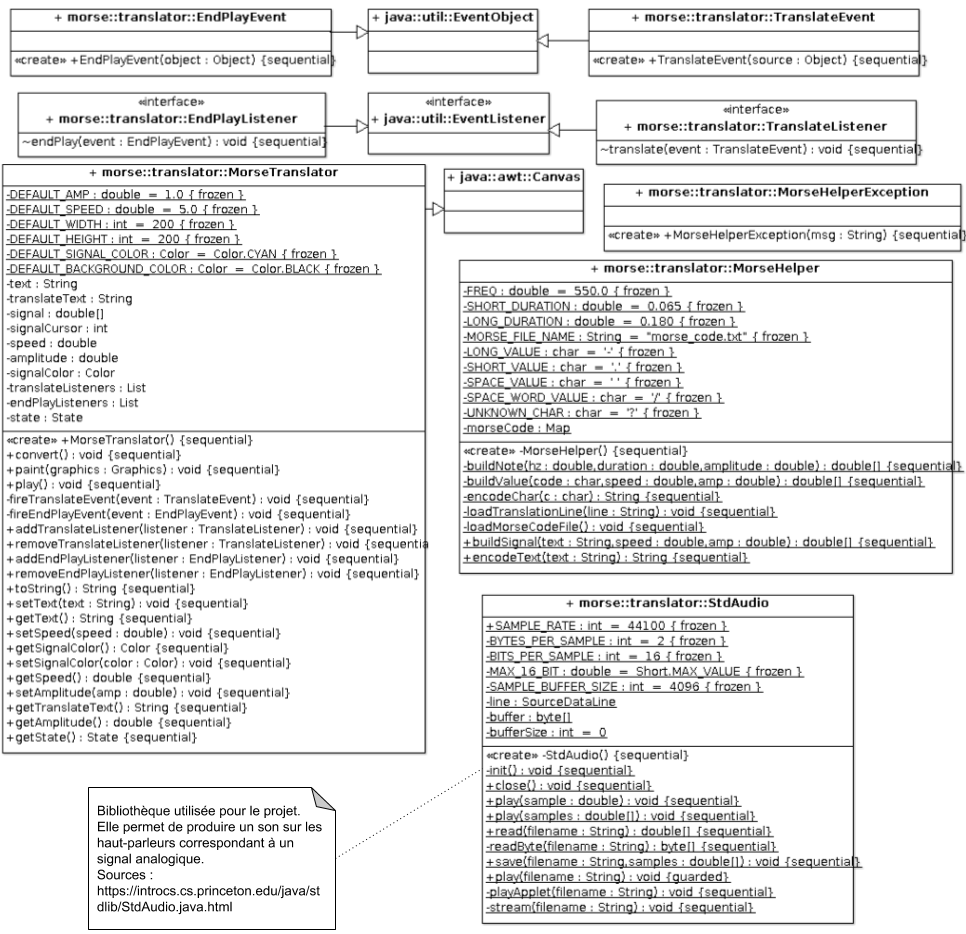
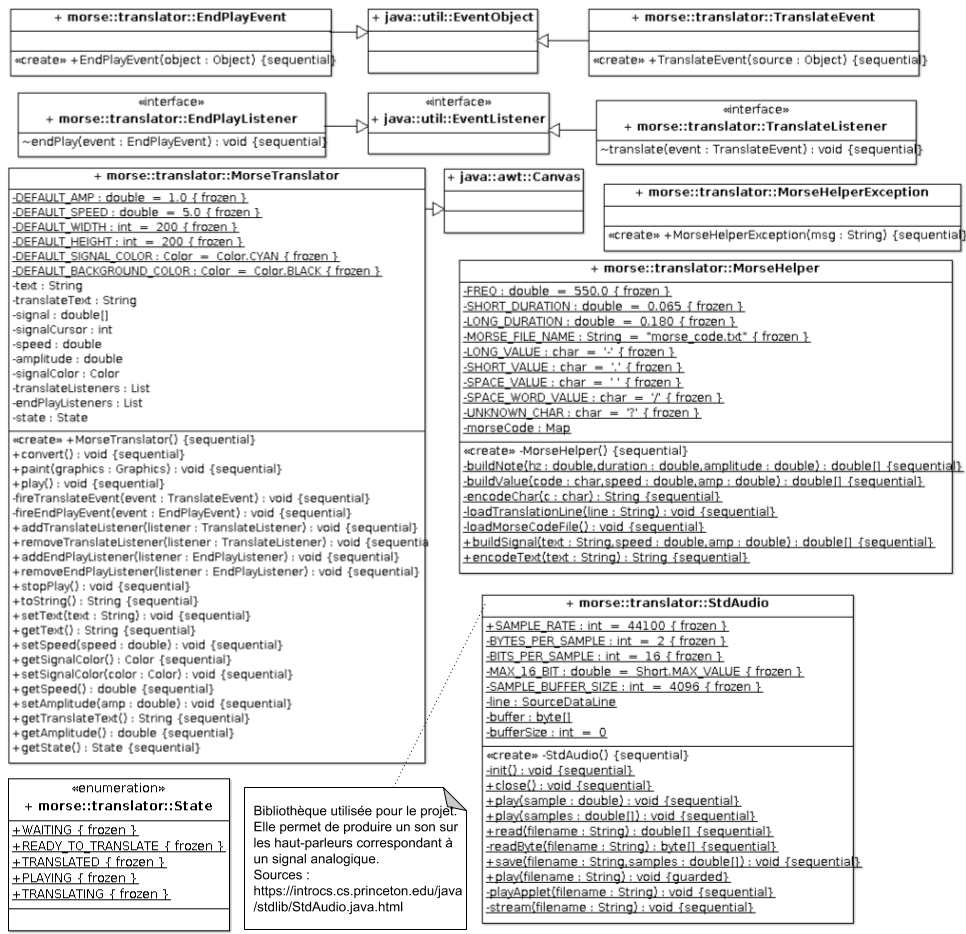
stop function and update documentation

Changed region(s): [[0.0, 0.1552, 0.4969, 1.0]]

diff --git a/src/Demo.java b/src/Demo.java
@@ -20,6 +20,9 @@ import java.awt.event.KeyEvent;
  */
 public class Demo extends javax.swing.JPanel {
 
+    private static final String STOP_LABEL = "Stop";
+    private static final String PLAY_LABEL = "Play";
+
     private javax.swing.JScrollPane inputScrollPane;
     private javax.swing.JTextArea inputText;
     private MorseTranslator morseTranslator;
@@ -35,7 +38,7 @@ public class Demo extends javax.swing.JPanel {
 
     public Demo() {
         initComponents();
-        autoLockElements();
+        autoElementsManagement();
     }
 
 
@@ -103,7 +106,7 @@ public class Demo extends javax.swing.JPanel {
             }
         });
 
-        playButton.setText("Play");
+        playButton.setText(PLAY_LABEL);
         playButton.addActionListener(new ActionListener() {
             @Override
             public void actionPerformed(ActionEvent event) {
@@ -199,48 +202,50 @@ public class Demo extends javax.swing.JPanel {
 
     private void inputTextKeyReleased(java.awt.event.KeyEvent evt) {
 
-        System.out.println(inputText.getText());
-
         if (!morseTranslator.getText().equals(inputText.getText())) {
             morseTranslator.setText(inputText.getText());
-            autoLockElements();
+            autoElementsManagement();
         }
     }
 
     private void translateButtonActionPerformed(java.awt.event.ActionEvent evt) {
 
         morseTranslator.convert();
-        autoLockElements();
+        autoElementsManagement();
     }
 
     private void playButtonActionPerformed(java.awt.event.ActionEvent evt) {
 
-        morseTranslator.play();
-        autoLockElements();
+        if (morseTranslator.getState() == State.PLAYING) {
+            morseTranslator.stopPlay();
+        } else {
+            morseTranslator.play();
+            autoElementsManagement();
+        }
     }
 
     private void speedStateChanged(javax.swing.event.ChangeEvent ce) {
 
         morseTranslator.setSpeed((double) speedSlider.getMaximum() / speedSlider.getValue());
-        autoLockElements();
+        autoElementsManagement();
     }
 
     private void ampStateChanged(javax.swing.event.ChangeEvent ce) {
 
         morseTranslator.setAmplitude((double) ampSlider.getValue() / ampSlider.getMaximum());
-        autoLockElements();
+        autoElementsManagement();
     }
 
     /* Fonction appelée par l’événement de traduction */
     private void morseTranslatorTranslate(TranslateEvent evt) {
 
         translateText.setText(morseTranslator.getTranslateText()); // On affiche le texte traduit
-        autoLockElements();
+        autoElementsManagement();
     }
 
     private void morseTranslatorEndPlay(EndPlayEvent evt) {
 
-        autoLockElements();
+        autoElementsManagement();
     }
 
     public MorseTranslator getMorseTranslator() {
@@ -249,7 +254,7 @@ public class Demo extends javax.swing.JPanel {
 
 
     /* Rend les composants de la fenêtre accessible à l'utilisateur en fonction du status du MorseTranslator */
-    private void autoLockElements() {
+    private void autoElementsManagement() {
 
         switch (morseTranslator.getState()) {
 
@@ -260,6 +265,7 @@ public class Demo extends javax.swing.JPanel {
                 inputText.setEnabled(true);
                 playButton.setEnabled(false);
                 translateButton.setEnabled(false);
+                playButton.setText(PLAY_LABEL);
                 break;
 
             case PLAYING:
@@ -267,8 +273,9 @@ public class Demo extends javax.swing.JPanel {
                 ampSlider.setEnabled(false);
                 translateText.setEnabled(false);
                 inputText.setEnabled(false);
-                playButton.setEnabled(false);
+                playButton.setEnabled(true);
                 translateButton.setEnabled(false);
+                playButton.setText(STOP_LABEL);
                 break;
 
             case READY_TO_TRANSLATE:
@@ -278,6 +285,7 @@ public class Demo extends javax.swing.JPanel {
                 inputText.setEnabled(true);
                 playButton.setEnabled(false);
                 translateButton.setEnabled(true);
+                playButton.setText(PLAY_LABEL);
                 break;
 
             case TRANSLATED:
@@ -287,6 +295,7 @@ public class Demo extends javax.swing.JPanel {
                 inputText.setEnabled(true);
                 playButton.setEnabled(true);
                 translateButton.setEnabled(false);
+                playButton.setText(PLAY_LABEL);
                 break;
 
             case TRANSLATING:
@@ -296,10 +305,11 @@ public class Demo extends javax.swing.JPanel {
                 inputText.setEnabled(false);
                 playButton.setEnabled(false);
                 translateButton.setEnabled(false);
+                playButton.setText(PLAY_LABEL);
                 break;
 
             default:
-                System.err.println("development error");
+                System.err.println("development error !");
                 System.exit(-1);
                 break;
         }

diff --git a/document/Morse-Tranlator.tex b/document/Morse-Tranlator.tex
@@ -27,7 +27,7 @@ ENSISA,\\
     \begin{center}
         \large{Lien vers le logiciel de gestion de versions du projet :} \texttt{https://github.com/LaroyenneG/Morse-Tranlator.git}
         \\[2cm]
-        \textit{Version de java utilisé : \texttt{\underline{JDK 1.7.0}}}
+        \textit{Version de java utilisée : \texttt{\underline{Open JDK 1.7.0}}}
     \end{center}
 
     \newpage
@@ -39,22 +39,22 @@ ENSISA,\\
     \section{Présentation}
     \subsection{Description}
     \paragraph{}
-    Le composant "\textit{Morse Translator}" permet de réaliser des traductions de textes simple en code Morse. Il permet également de visualiser et d'écouter les messages traduits en fonction d'une amplitude et d'une vistesse souhaitée.
+    Le composant "\textit{Morse Translator}" permet de réaliser des traductions de textes simples en code Morse. Il permet également de visualiser et d'écouter les messages traduits en fonction d'une amplitude et d'une vistesse souhaitée.
     \paragraph{}
-    Durant la phase de traduction, un nouveau texte est créé contenant le code Morse équivalent au texte donné au composant. Un signal analogique sera également construit correspondant au signal audio du message en Morse. Néanmoins, la construction du signal et sa lecture peuvent prendre un temps conséquent. Pour éviter que ces deux fonctionnalitées du composant soient bloquante, les traitements sont effectués à l'intérieur de processus léger. Pour informer d'autres composants d'une application que ces opérations sont terminées, la programmation par événement a été utilisé.\\
-    Il existe donc deux événements dans la l'application :
+    Durant la phase de traduction, un nouveau texte est créé contenant le code Morse équivalent au texte donné au composant. Un signal analogique sera également construit correspondant au signal audio du message en Morse. Néanmoins, la construction du signal et sa lecture peuvent prendre un temps conséquent. Pour éviter que ces deux fonctionnalités du composant soient bloquante, les traitements sont effectués à l'intérieur de processus léger. Pour informer d'autres composants d'une application que ces opérations sont terminées, la programmation par événement a été utilisée.\\
+    Il existe donc deux événements dans l'application :
     \begin{description}
         \item[\textit{TranslateEvent}] : Événement produit lorsque le processus de traduction et de construction du signal est terminé.
         \item[\textit{EndPlayEvent}] : Événement produit lorsque le processus de lecture audio est terminé.
     \end{description}
     \paragraph{}
-    Dans le cas de l'interface de démonstration, la programmation asynchrone du composant permet à l'interface de ne jamais se retrouver dans un état "bloqué" lorsqu'elle interagit avec lui. La programmation par événements permet de réaliser des actions sur d'autres composants dés lors qu'un des processus est terminé (comme ajouter le texte traduit à une \textit{JTextArea} ou déverrouiller des boutons par exemple).
+    Dans le cas de l'interface de démonstration, la programmation asynchrone du composant permet à l'interface de ne jamais se retrouver dans un état "bloqué" lorsqu'elle interagit avec lui. La programmation par événements permet de réaliser des actions sur d'autres composants dès lors qu'un des processus est terminé (comme ajouter le texte traduit à une \textit{JTextArea} ou déverrouiller des boutons par exemple).
 
 
     \subsection{Aperçu}
     \begin{figure}[H]
         \begin{center}
-            \includegraphics[scale=1]{descpicture.png}
+            \includegraphics[scale=0.7]{descpicture.png}
             \caption{Capture d'écran de l'application de test du composant}
             \label{Capture d'écran de l'application de test du composant}
         \end{center}

diff --git a/src/morse/translator/MorseTranslator.java b/src/morse/translator/MorseTranslator.java
@@ -36,6 +36,7 @@ public class MorseTranslator extends Canvas {
 
     private List<TranslateListener> translateListeners;
     private List<EndPlayListener> endPlayListeners;
+    private State state;
 
     public MorseTranslator() {
 
@@ -55,8 +56,6 @@ public class MorseTranslator extends Canvas {
         signalColor = DEFAULT_SIGNAL_COLOR;
         state = State.WAITING;
     }
-
-    private State state;
 
     public void convert() {
 
@@ -115,7 +114,8 @@ public class MorseTranslator extends Canvas {
 
             @Override
             public void run() {
-                for (signalCursor = 0; signalCursor < signal.length; signalCursor++) {
+
+                for (signalCursor = 0; signalCursor < signal.length && state == State.PLAYING; signalCursor++) {
 
                     StdAudio.play(signal[signalCursor]);
 
@@ -163,6 +163,13 @@ public class MorseTranslator extends Canvas {
         this.endPlayListeners.remove(listener);
     }
 
+    public void stopPlay() {
+
+        // il n'y a pas besoin d'utiliser de synchronized car tous les type de bases sont thread safe en java
+        if (state == State.PLAYING) {
+            state = State.TRANSLATED;
+        }
+    }
 
     @Override
     public String toString() {
@@ -187,21 +194,15 @@ public class MorseTranslator extends Canvas {
         return new String(builder);
     }
 
+    public String getText() {
+        return text;
+    }
+
     /*
      * Getters and Setters zone
      */
     public void setText(String text) {
         this.text = text;
-        state = State.READY_TO_TRANSLATE;
-    }
-
-
-    public String getText() {
-        return text;
-    }
-
-    public void setSpeed(double speed) {
-        this.speed = (speed >= 1.0 && speed <= 10.0) ? speed : DEFAULT_SPEED;
         state = State.READY_TO_TRANSLATE;
     }
 
@@ -217,8 +218,8 @@ public class MorseTranslator extends Canvas {
         return speed;
     }
 
-    public void setAmplitude(double amp) {
-        this.amplitude = (amp >= 0.0 && amp <= 1.0) ? amp : DEFAULT_AMP;
+    public void setSpeed(double speed) {
+        this.speed = (speed >= 1.0 && speed <= 10.0) ? speed : DEFAULT_SPEED;
         state = State.READY_TO_TRANSLATE;
     }
 
@@ -228,6 +229,11 @@ public class MorseTranslator extends Canvas {
 
     public double getAmplitude() {
         return amplitude;
+    }
+
+    public void setAmplitude(double amp) {
+        this.amplitude = (amp >= 0.0 && amp <= 1.0) ? amp : DEFAULT_AMP;
+        state = State.READY_TO_TRANSLATE;
     }
 
     public State getState() {

diff --git a/src/morse/translator/MorseTranslatorBeanInfo.java b/src/morse/translator/MorseTranslatorBeanInfo.java
@@ -85,21 +85,17 @@ public class MorseTranslatorBeanInfo extends SimpleBeanInfo {
         return eventSets;     }//GEN-LAST:Events
 
     // Method identifiers//GEN-FIRST:Methods
-    private static final int METHOD_convert0 = 0;
-    private static final int METHOD_play1 = 1;
+    private static final int METHOD_stopPlay0 = 0;
 
     // Method array 
     /*lazy MethodDescriptor*/
     private static MethodDescriptor[] getMdescriptor(){
-        MethodDescriptor[] methods = new MethodDescriptor[2];
+        MethodDescriptor[] methods = new MethodDescriptor[1];
     
         try {
-            methods[METHOD_convert0] = new MethodDescriptor(morse.translator.MorseTranslator.class.getMethod("convert")); // NOI18N
-            methods[METHOD_convert0].setDisplayName ( "Translate" );
-            methods[METHOD_convert0].setShortDescription ( "Translate your text to morse code" );
-            methods[METHOD_play1] = new MethodDescriptor(morse.translator.MorseTranslator.class.getMethod("play")); // NOI18N
-            methods[METHOD_play1].setDisplayName ( "Play" );
-            methods[METHOD_play1].setShortDescription ( "Play the morse signal" );
+            methods[METHOD_stopPlay0] = new MethodDescriptor(morse.translator.MorseTranslator.class.getMethod("stopPlay")); // NOI18N
+            methods[METHOD_stopPlay0].setDisplayName ( "Stop Play" );
+            methods[METHOD_stopPlay0].setShortDescription ( "Stop play and fire events" );
         }
         catch( Exception e) {}//GEN-HEADEREND:Methods
         // Here you can add code for customizing the methods array.
